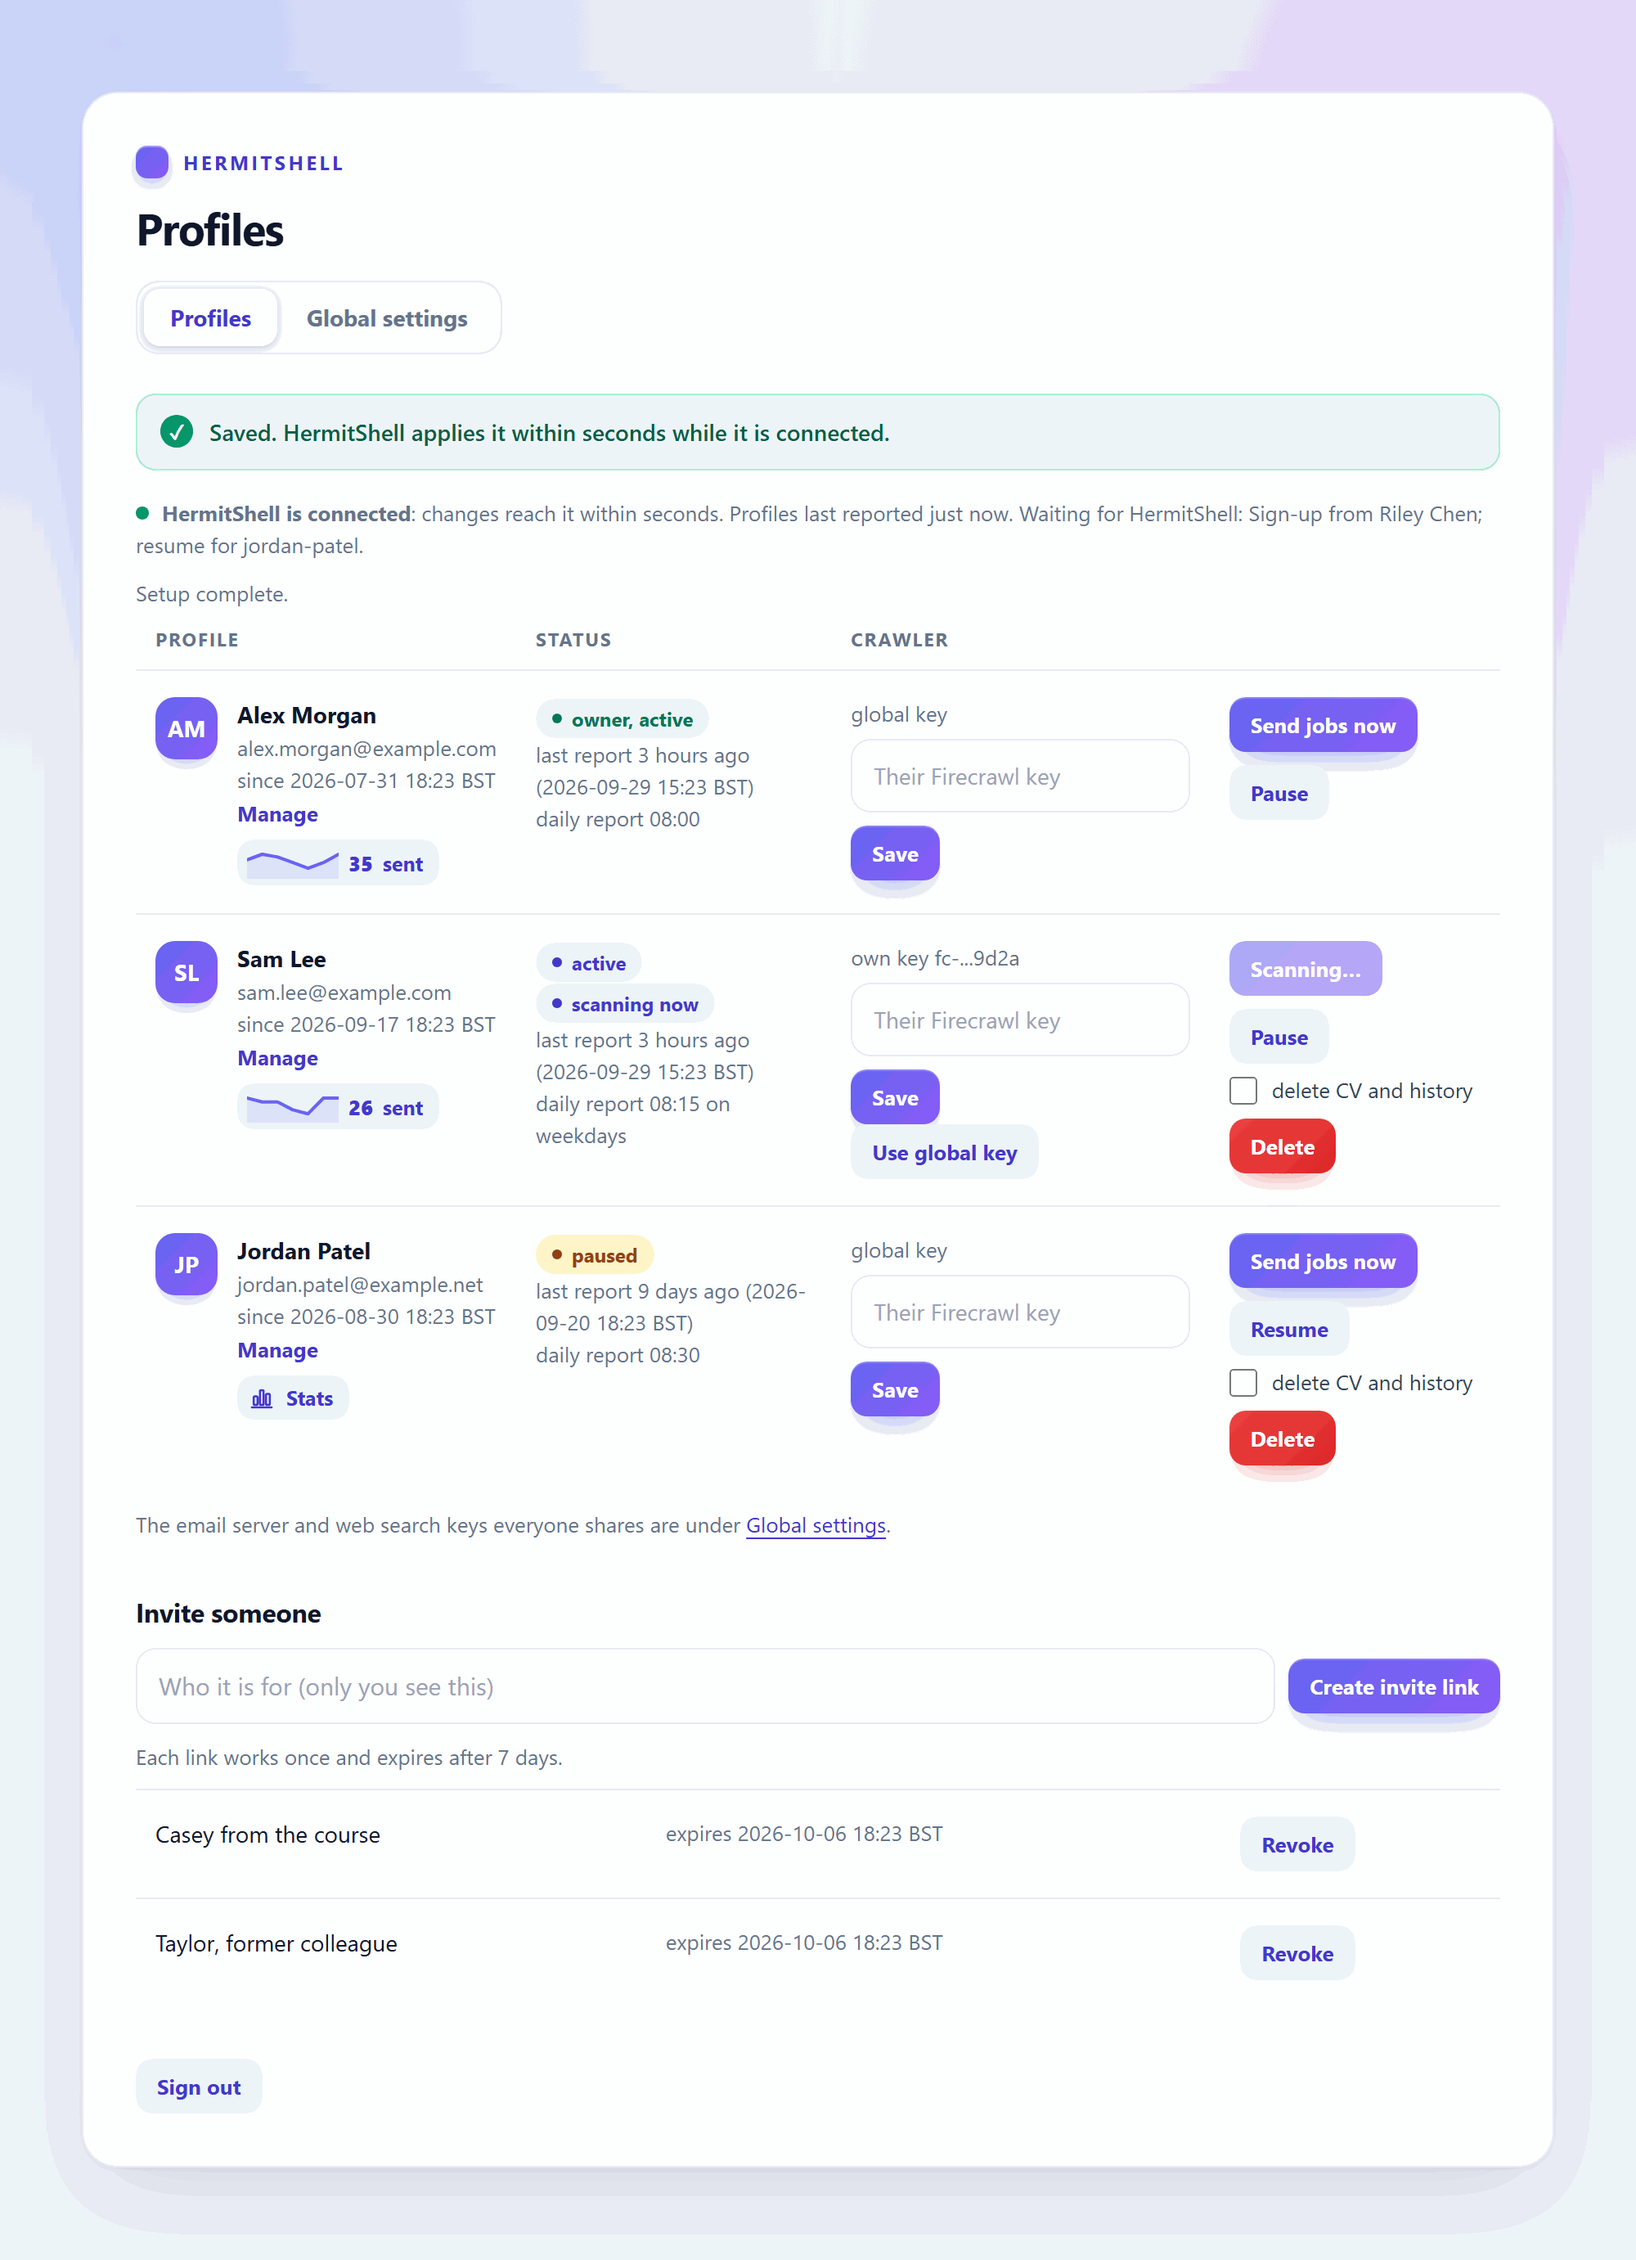
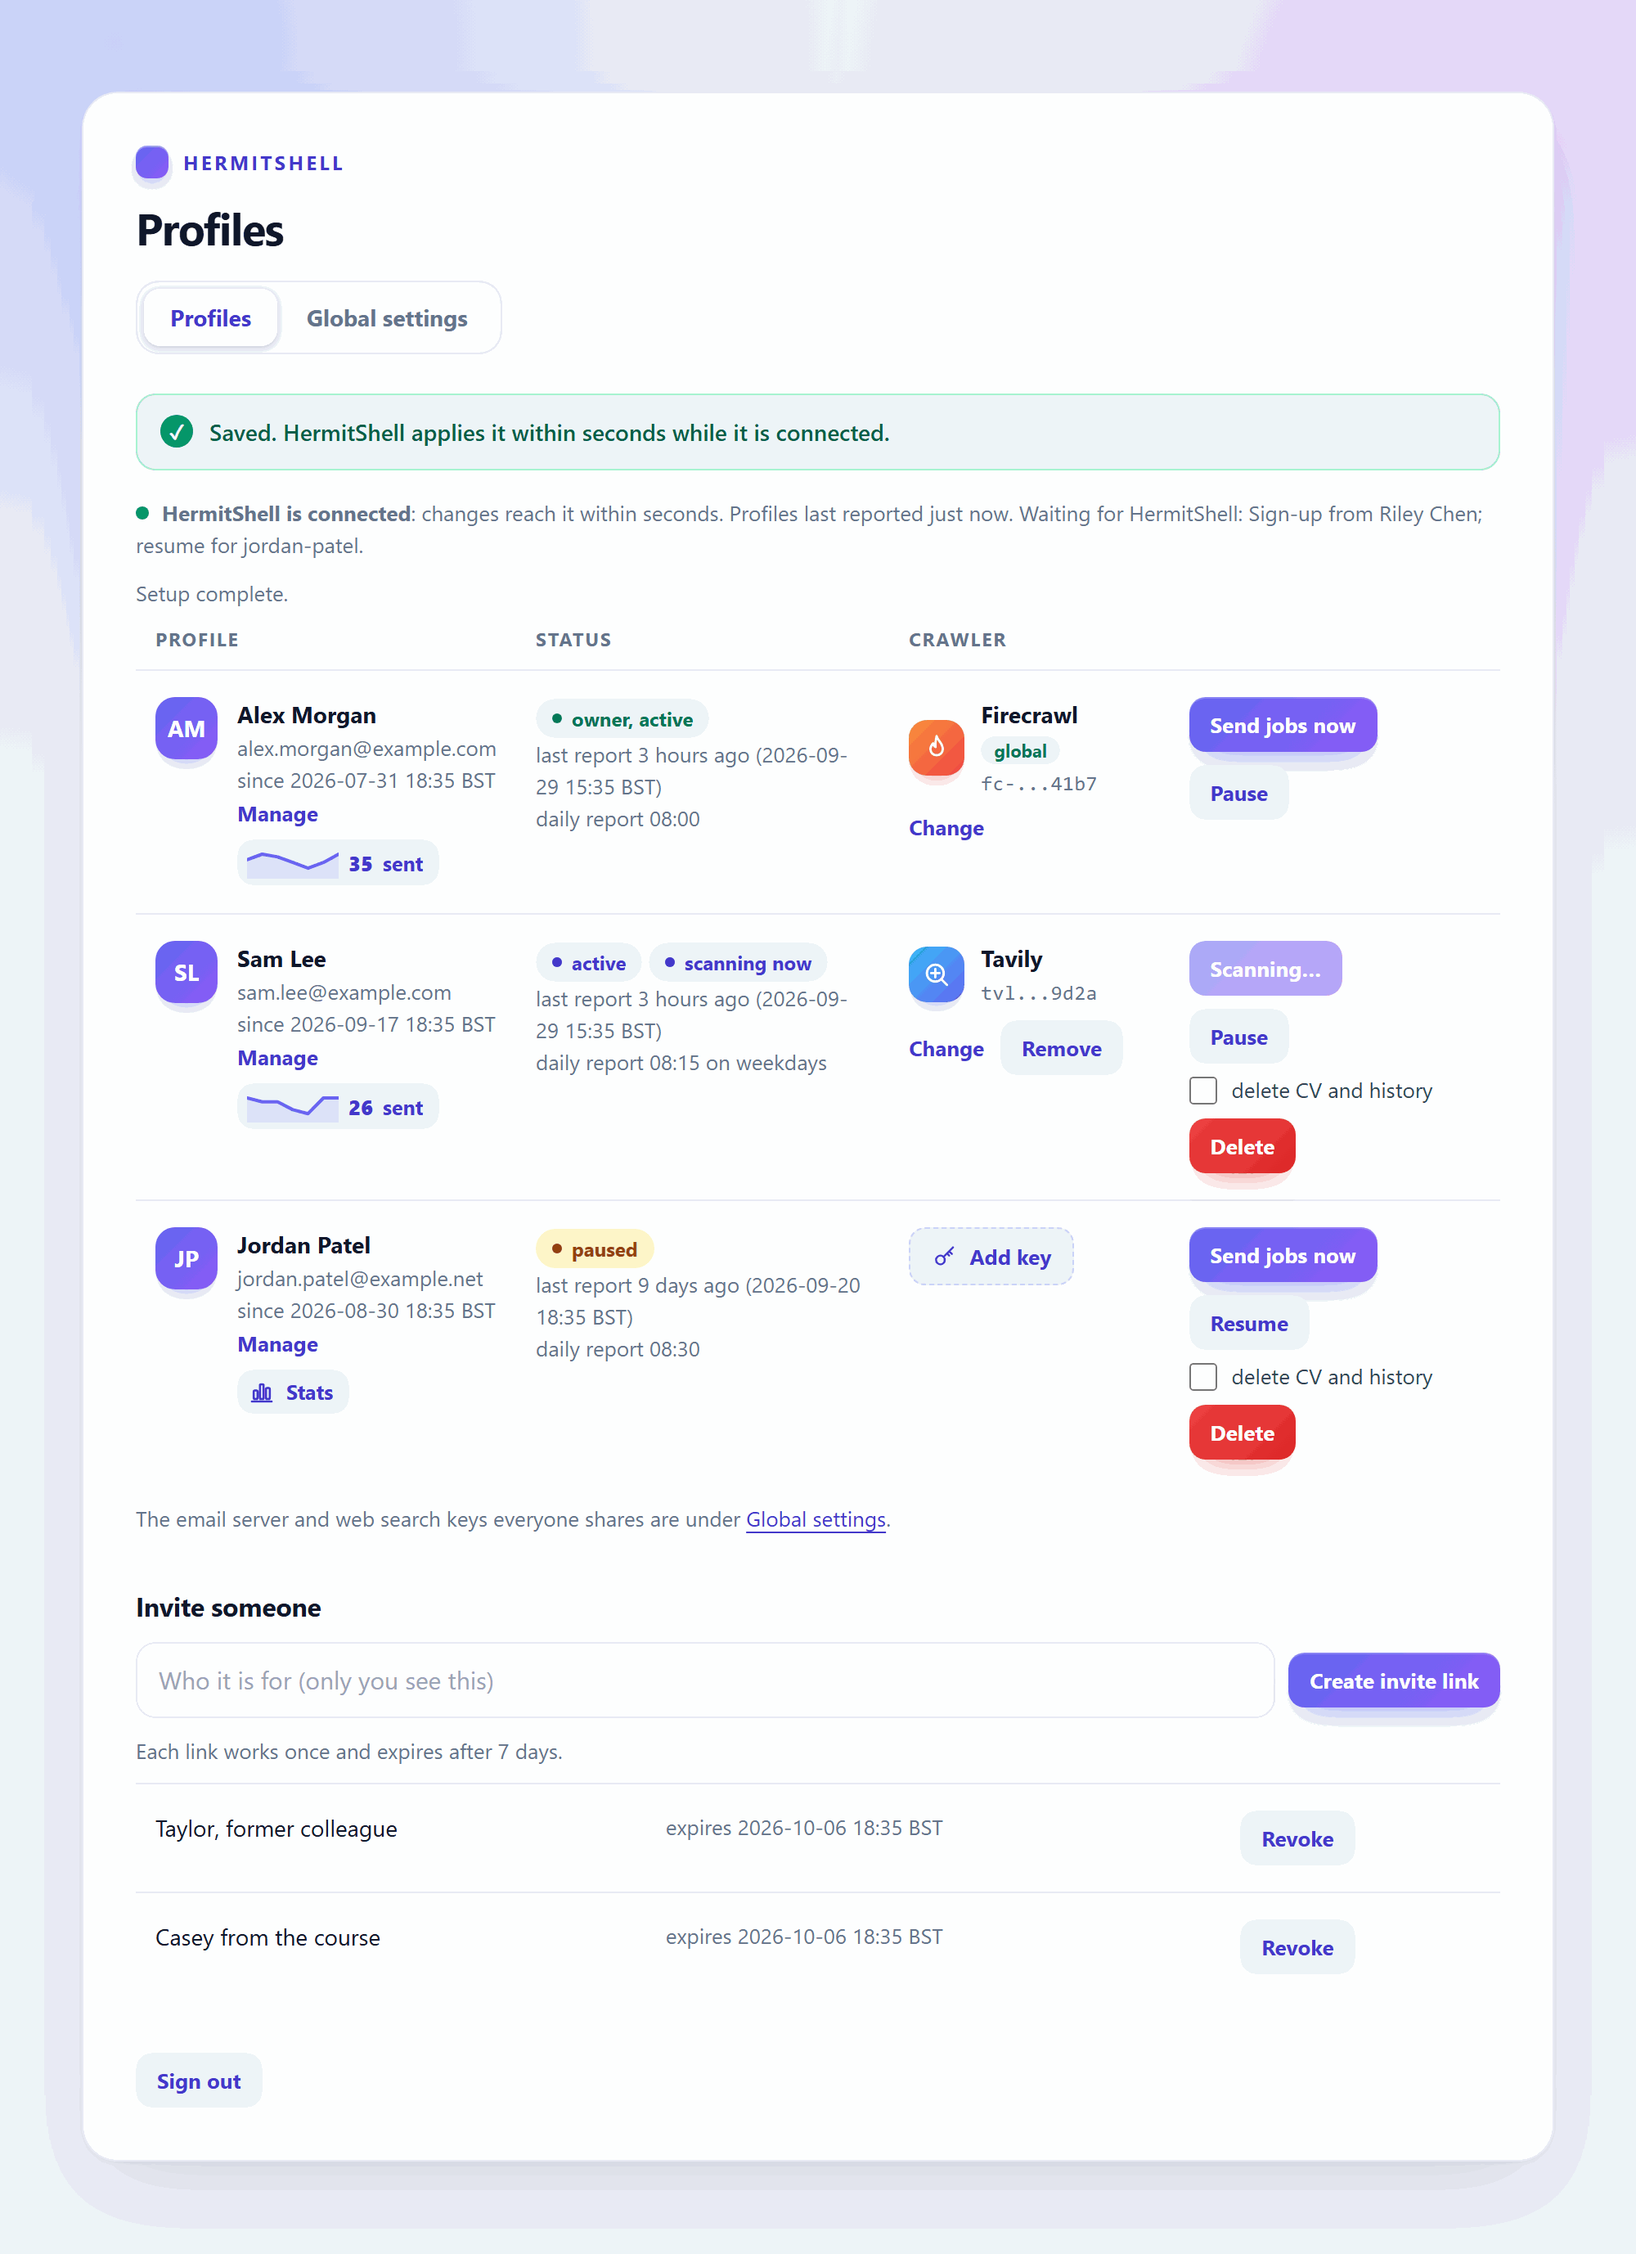
Docs, changelog and screenshots for the crawler key modal

diff --git a/scripts/screenshots/make.py b/scripts/screenshots/make.py
@@ -375,8 +375,11 @@ def main() -> int:
                 760, 1100)
         for html in sorted((html_dir / "worker").glob("*.html")):
             capture(chrome, profile, html, args.out / "worker" / f"{html.stem}.png",
-                    1000 if html.stem.startswith(("admin-dashboard", "admin-profile", "admin-settings", "admin-stats")) else
-                    760 if html.stem == "privacy" else 600)
+                    1000 if html.stem.startswith(("admin-dashboard", "admin-profile", "admin-settings", "admin-stats",
+                                                  "admin-key")) else
+                    760 if html.stem == "privacy" else 600,
+                    # A modal covers the whole window, so the page cannot be trimmed to its content.
+                    720 if html.stem == "admin-key-modal" else None)
             print(f"worker/{html.stem}.png")
     return 0
 

diff --git a/CHANGELOG.md b/CHANGELOG.md
@@ -8,6 +8,14 @@ using [Semantic Versioning](https://semver.org/).
 
 ### Added
 
+- **A tidier Crawler column, with an Add key window.**
+  - A profile's row shows its crawler key only when it has one: the provider (Firecrawl or Tavily) and
+    the start and end of the key. The owner's row shows the global key, tagged **global**.
+  - Without a key, **Add key** opens a window, CSS only with no JavaScript, to pick Firecrawl or Tavily
+    and paste the key. **Change** and **Remove** replace the key or go back to the global keys.
+  - A profile's own key can now be a Tavily key. It's saved with its provider in the profile's
+    `secrets.json`; the older Firecrawl-only file still works.
+  - The status HermitShell sends has a new `provider` field for each profile.
 - **A stats page for every profile.**
   - A **Stats** button on each dashboard row, showing this week's jobs sent as a small line and a number,
     and on each profile's page, opens `/admin/stats`. It covers the last 7 days, 30 days, 90 days or 12
@@ -368,6 +376,8 @@ using [Semantic Versioning](https://semver.org/).
 
 ### Changed
 
+- A profile with its own crawler key now searches with only that key. Before, it could still fall back
+  to the global Tavily and Scrapfly keys and spend their credits.
 - Vacancy report cards show the three strongest matching skills in bold (the rest as one line),
   the biggest gap, "Salary not listed" when there's no salary, and the closing date.
 - `JOB_SCANNER_MAX_SCRAPE` now defaults to 25 (was 15).
@@ -386,6 +396,9 @@ using [Semantic Versioning](https://semver.org/).
 
 ### Fixed
 
+- Two dashboard changes saved in the same millisecond could reach HermitShell in the wrong order,
+  because the queue sorted them by a random id. The Worker now gives each change a later time than the
+  one before.
 - Jobs whose rating failed (model timeout or bad JSON) were marked as seen and never shown. They
   are now retried on the following runs, up to 4 attempts (`state/job_scanner_retry.json`).
   Only jobs that were rated or definitely ruled out are marked as seen.

diff --git a/docs/screenshots.md b/docs/screenshots.md
@@ -296,14 +296,17 @@ deleted ([data protection](configuration.md#data-protection)).
 | **Send jobs now** | Runs that profile's report straight away and emails it when the scan finishes, even if nothing new turned up. Shows **Scanning…** while a report runs; missing without a CV |
 | **Manage** | Opens [that profile's page](#a-profiles-page): details, job search, report time and CV |
 | **Stats** (line + number) | This week's jobs sent, day by day; opens [that profile's stats](#a-profiles-stats) |
-| Crawler: **Their Firecrawl key** + **Save** | Gives that profile its own Firecrawl key, used instead of the global one |
-| **Use global key** | Takes a profile back to the global key |
+| Crawler, with a key | The provider (Firecrawl or Tavily) and the start and end of the key, never the whole key. The owner's row shows the global key, tagged **global** |
+| Crawler: **Add key** | Only when the profile has no key: opens a window to pick Firecrawl or Tavily and paste the key. That profile then searches with only its own key. On the owner's row it sets the global key |
+| **Change** / **Remove** | Opens the same window to replace the key, or takes the profile back to the global keys. On the owner's row, **Change** opens [Global settings](#global-settings) |
 | **Pause** / **Resume** | Stops or restarts that profile's reports |
 | **Delete** (with the tick box) | Deletes an extra profile's CV and history from your server. The owner can't be deleted |
 | **Profiles** / **Global settings** tabs | Switch between the profiles and the [settings shared by the whole tool](#global-settings) |
 | Invite someone + **Create invite link** | Makes a one-time `/join` link; the note is only for you |
 | **Revoke** | Cancels an unused invite |
 | **Sign out** | Ends every admin session |
+
+<img src="images/worker/admin-key-modal.png" alt="The Add key window: Firecrawl or Tavily, and the API key" width="620">
 
 <table>
 <tr><th>Right after setup: the checklist</th><th>Before HermitShell has reported</th><th>New invite link</th></tr>

diff --git a/docs/feedback-worker.md b/docs/feedback-worker.md
@@ -365,8 +365,11 @@ whole tool shares).
   and CV) and **Stats** its [stats page](#stats). Pause, resume or delete
   (deleting removes their CV and history from your server, their answers still waiting in KV and
   their name and email from the logs; the owner can't be deleted).
-- **Crawler**: give a profile its own Firecrawl key (it then uses only that key), or leave it on
-  the global keys.
+- **Crawler**: a profile with its own key shows the provider and the start and end of the key; the
+  owner's row shows the global key. Without a key, **Add key** opens a window (CSS only, no
+  JavaScript) to pick Firecrawl or Tavily and paste the key. A profile with its own key searches with
+  only that key, so it never spends the global credits; **Remove** takes it back to the global keys.
+  Scrapfly isn't offered there because it can't search on its own.
 - **Invites**: create, see and revoke unused links.
 
 #### Global settings

diff --git a/docs/api-keys.md b/docs/api-keys.md
@@ -26,8 +26,9 @@ One daily report uses about 20 to 40 Firecrawl credits: 4 searches plus up to
 data, company home pages) cost nothing. So one person's daily report fits in Firecrawl's free
 1,000 credits a month, and Tavily covers the days it runs out.
 
-For extra profiles, either give each person their own Firecrawl key (on `/admin`, in their row
-under **Crawler**; each person can make a free account), or add several global Firecrawl keys
+For extra profiles, either give each person their own Firecrawl or Tavily key (on `/admin`, **Add
+key** in their row under **Crawler**; each person can make a free account, and their searches then use
+only that key), or add several global Firecrawl keys
 separated by commas: HermitShell moves to the next key when one runs low. The footer of every report
 shows the credits each provider used.
 
